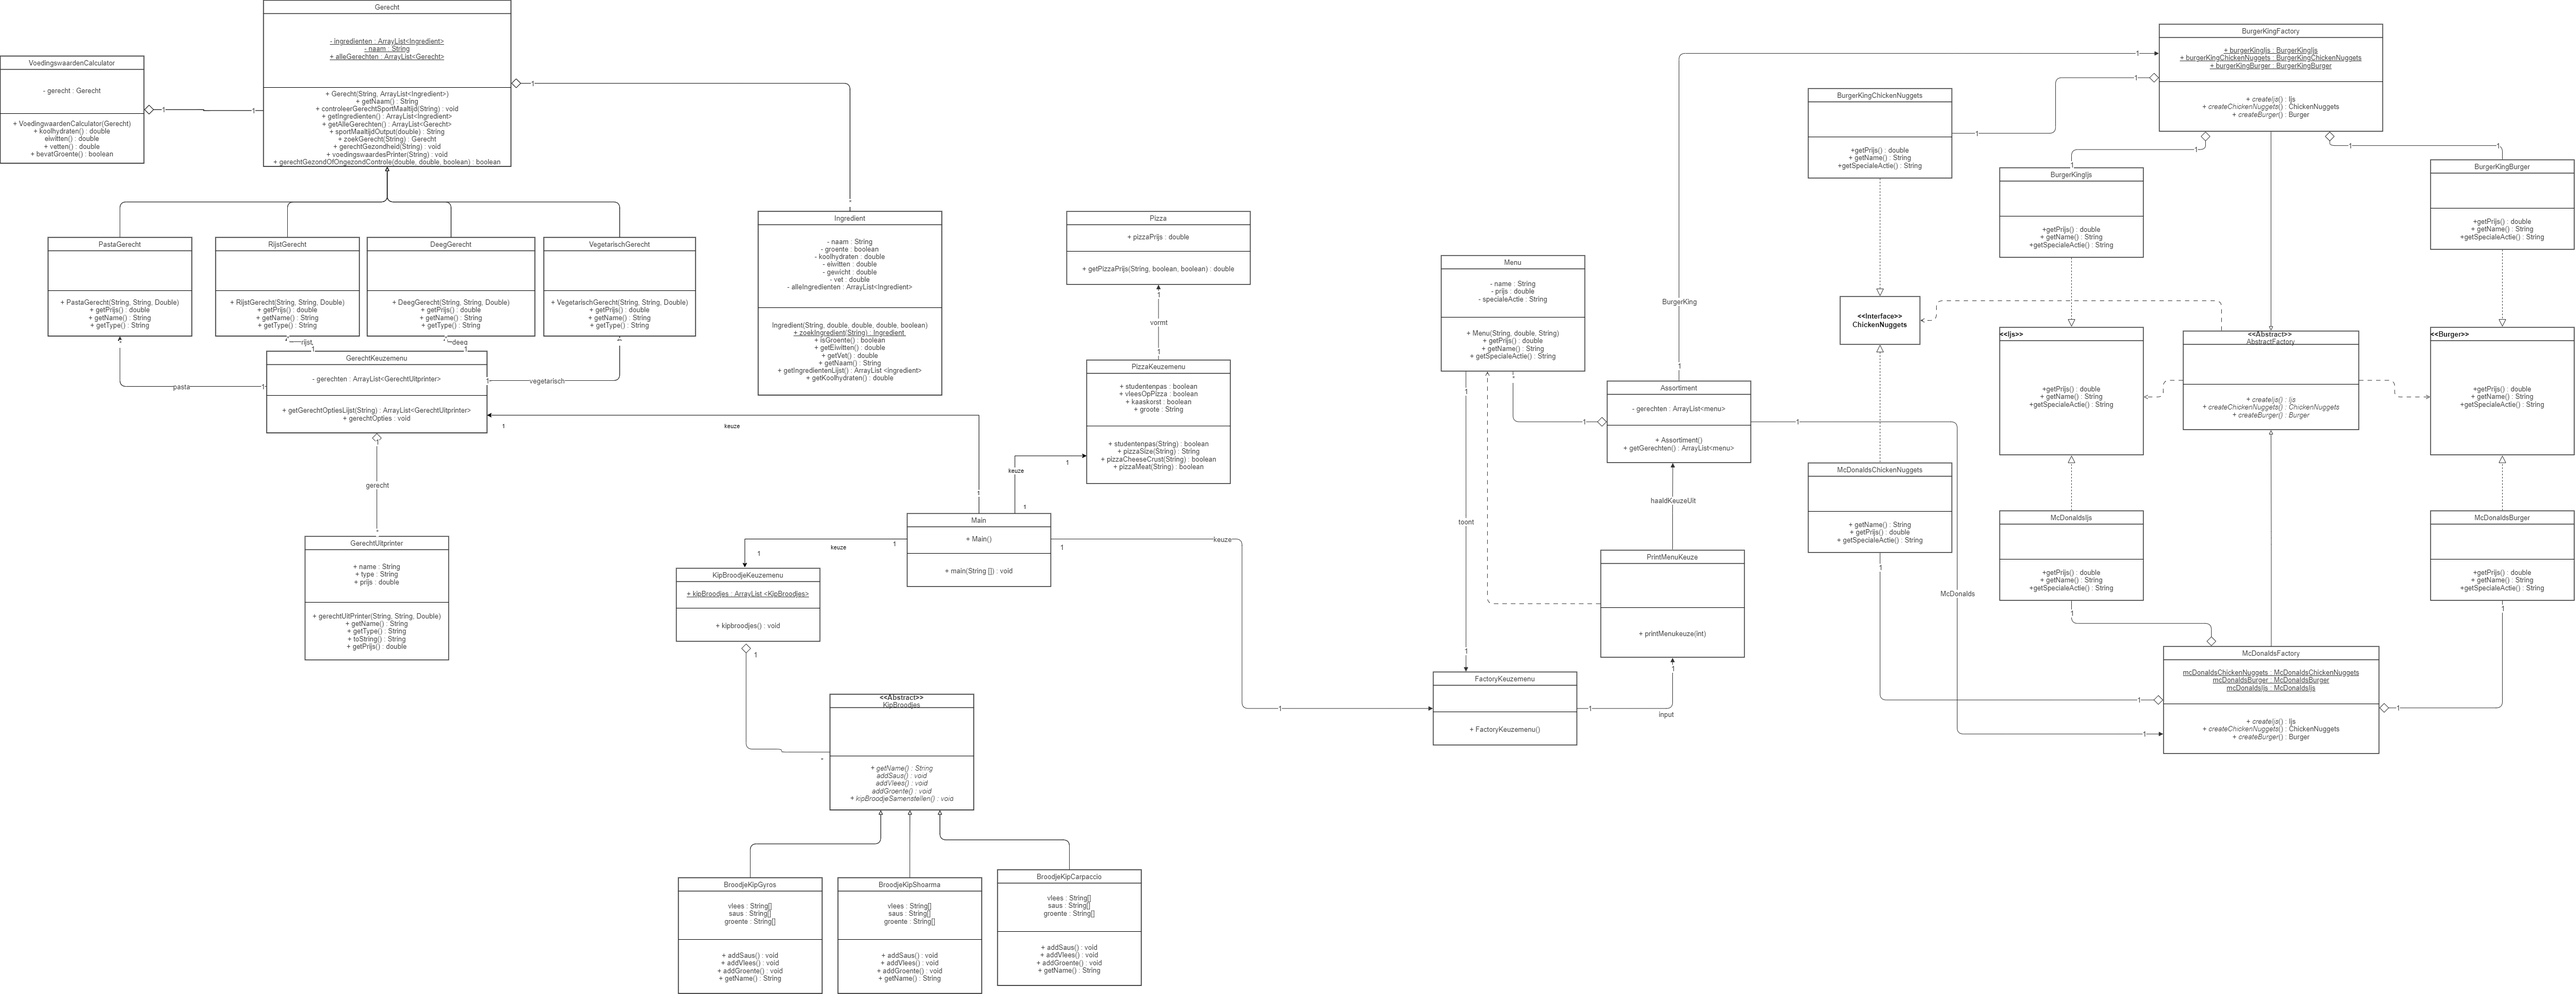
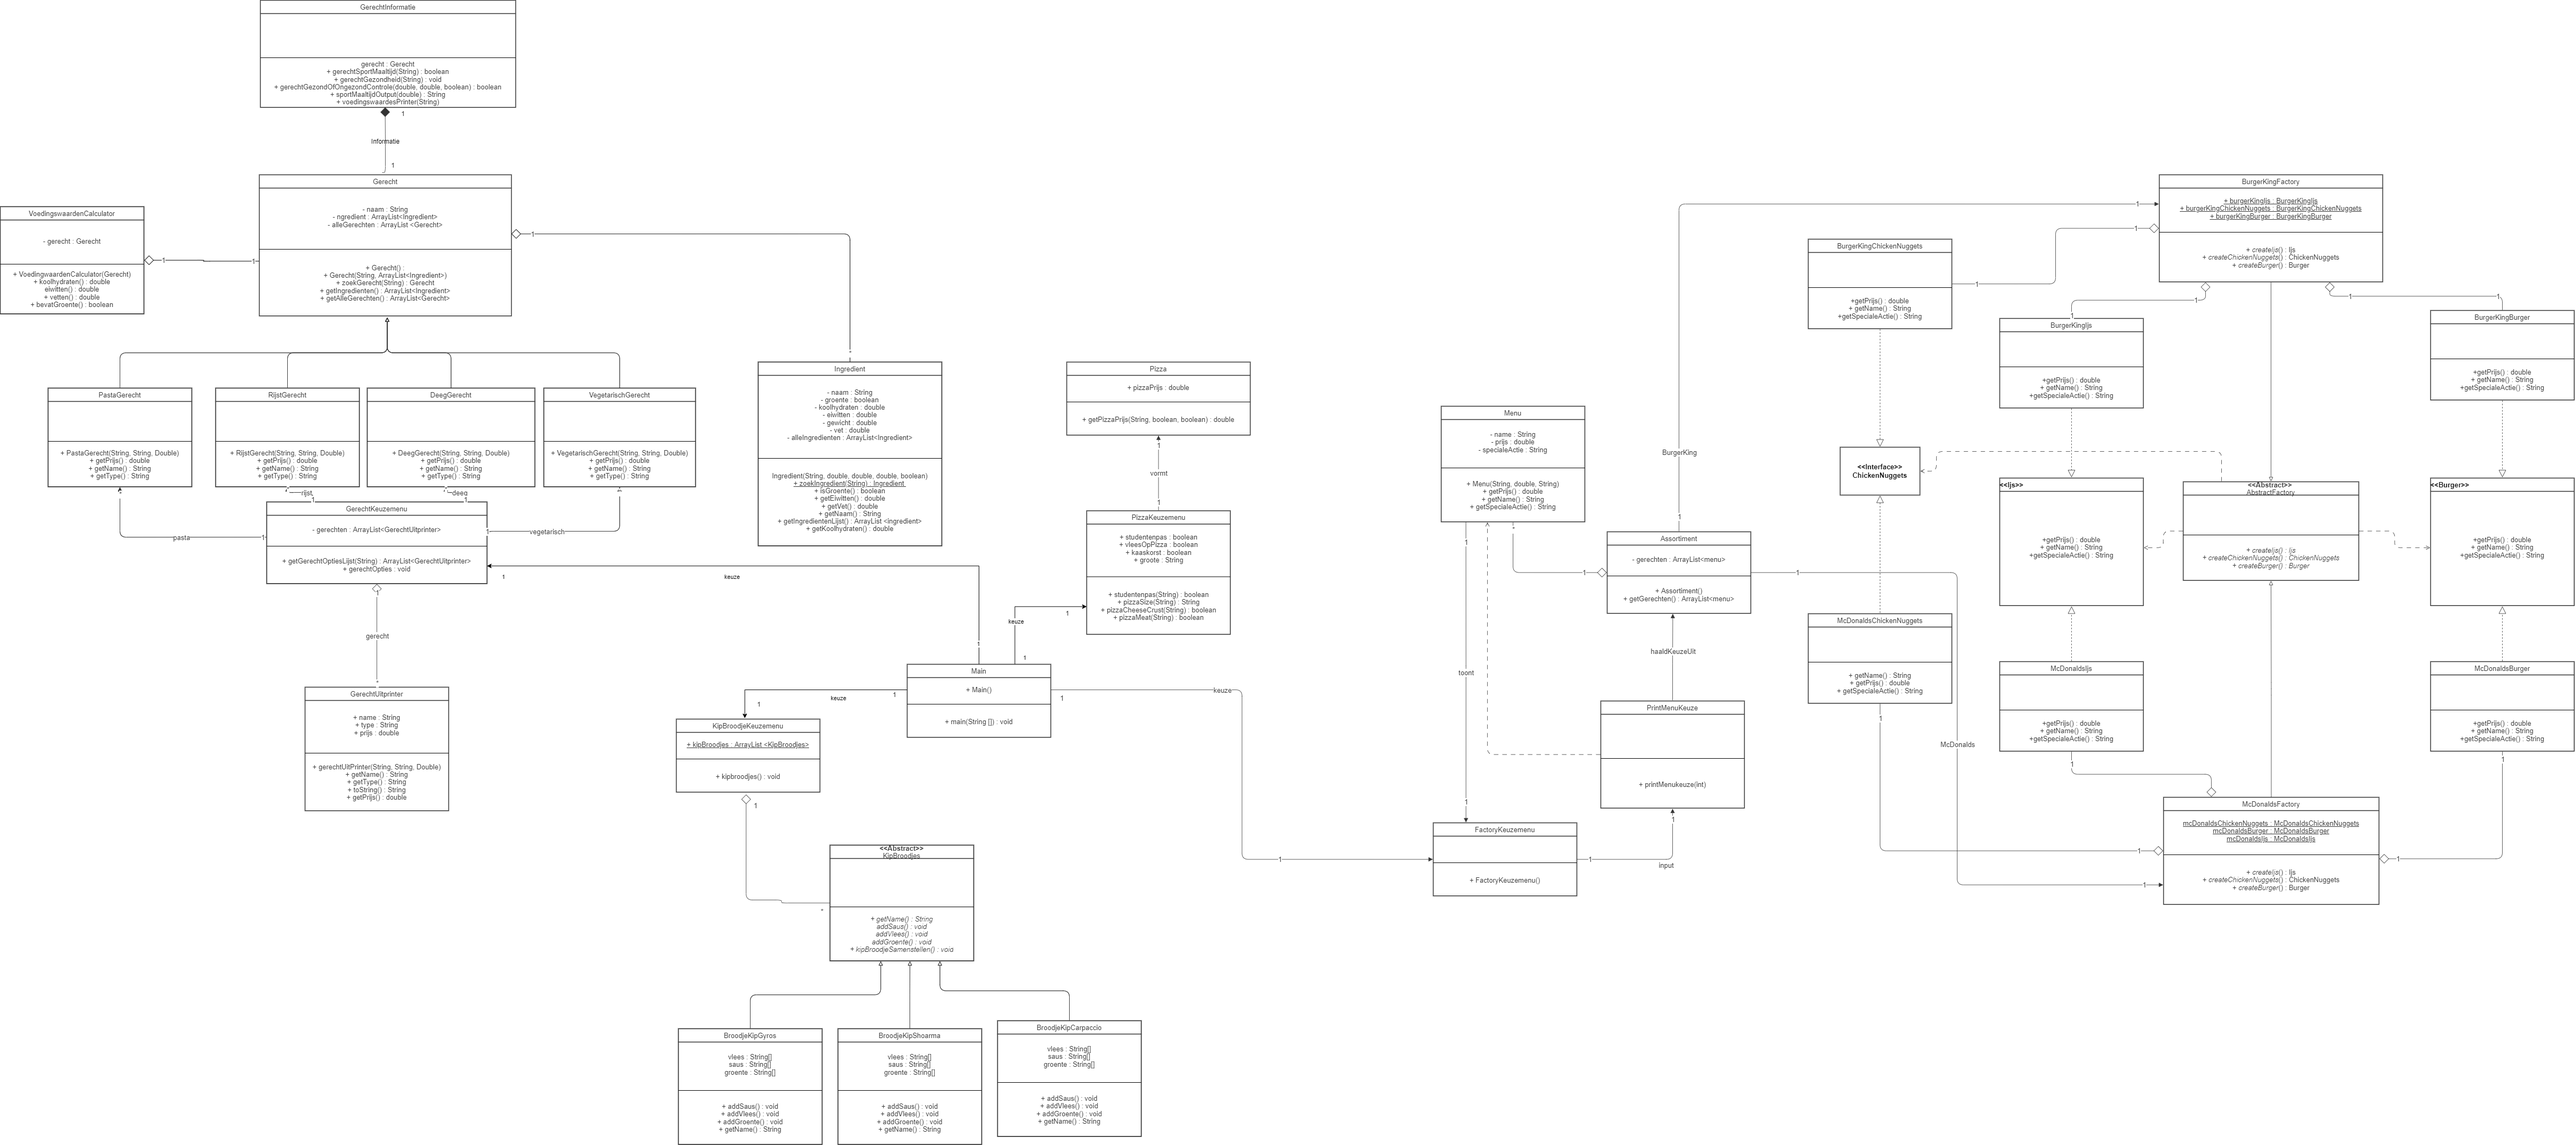
code smells verwijdert

diff --git a/src/AbstractFactoryPattern/Assortiment.java b/src/AbstractFactoryPattern/Assortiment.java
@@ -6,19 +6,19 @@ import AbstractFactoryPattern.McDonalds.McDonaldsFactory;
 import java.util.ArrayList;
 
 public class Assortiment {
-    private final ArrayList<Menu> gerechten = new ArrayList<>();
+    private final ArrayList<Producten> producten = new ArrayList<>();
 
     public Assortiment() {
-        gerechten.add(new Menu(McDonaldsFactory.mcDonaldsBurger.getName(), McDonaldsFactory.mcDonaldsBurger.getPrijs(), McDonaldsFactory.mcDonaldsBurger.getSpecialeActie()));
-        gerechten.add(new Menu(McDonaldsFactory.mcDonaldsIjs.getName(), McDonaldsFactory.mcDonaldsIjs.getPrijs(), McDonaldsFactory.mcDonaldsIjs.getSpecialeActie()));
-        gerechten.add(new Menu(McDonaldsFactory.mcDonaldsChickenNuggets.getName(), McDonaldsFactory.mcDonaldsChickenNuggets.getPrijs(), McDonaldsFactory.mcDonaldsChickenNuggets.getSpecialeActie()));
+        producten.add(new Producten(McDonaldsFactory.mcDonaldsBurger.getName(), McDonaldsFactory.mcDonaldsBurger.getPrijs(), McDonaldsFactory.mcDonaldsBurger.getSpecialeActie()));
+        producten.add(new Producten(McDonaldsFactory.mcDonaldsIjs.getName(), McDonaldsFactory.mcDonaldsIjs.getPrijs(), McDonaldsFactory.mcDonaldsIjs.getSpecialeActie()));
+        producten.add(new Producten(McDonaldsFactory.mcDonaldsChickenNuggets.getName(), McDonaldsFactory.mcDonaldsChickenNuggets.getPrijs(), McDonaldsFactory.mcDonaldsChickenNuggets.getSpecialeActie()));
 
-        gerechten.add(new Menu(BurgerKingFactory.burgerKingBurger.getName(), BurgerKingFactory.burgerKingBurger.getPrijs(), BurgerKingFactory.burgerKingBurger.getSpecialeActie()));
-        gerechten.add(new Menu(BurgerKingFactory.burgerKingChickenNuggets.getName(), BurgerKingFactory.burgerKingChickenNuggets.getPrijs(), BurgerKingFactory.burgerKingChickenNuggets.getSpecialeActie()));
-        gerechten.add(new Menu(BurgerKingFactory.burgerKingIjs.getName(), BurgerKingFactory.burgerKingIjs.getPrijs(), BurgerKingFactory.burgerKingIjs.getSpecialeActie()));
+        producten.add(new Producten(BurgerKingFactory.burgerKingBurger.getName(), BurgerKingFactory.burgerKingBurger.getPrijs(), BurgerKingFactory.burgerKingBurger.getSpecialeActie()));
+        producten.add(new Producten(BurgerKingFactory.burgerKingChickenNuggets.getName(), BurgerKingFactory.burgerKingChickenNuggets.getPrijs(), BurgerKingFactory.burgerKingChickenNuggets.getSpecialeActie()));
+        producten.add(new Producten(BurgerKingFactory.burgerKingIjs.getName(), BurgerKingFactory.burgerKingIjs.getPrijs(), BurgerKingFactory.burgerKingIjs.getSpecialeActie()));
     }
 
-    public ArrayList<Menu> getGerechten() {
-        return gerechten;
+    public ArrayList<Producten> getProducten() {
+        return producten;
     }
 }

diff --git a/src/GerechtInformatie.java b/src/GerechtInformatie.java
@@ -5,14 +5,14 @@ public class GerechtInformatie {
         double koolhydraten = new VoedingswaardenCalculator(gerecht.zoekGerecht(gerechtNaam)).koolhydraten();
         boolean groente = new VoedingswaardenCalculator(gerecht.zoekGerecht(gerechtNaam)).bevatGroente();
 
-        if (GerechtGezondOfOngezondControle(vetten, koolhydraten, groente)) {
+        if (gerechtGezondOfOngezondControle(vetten, koolhydraten, groente)) {
             System.out.println("Dit gerecht is ongezond! Het gerecht bevat geen groente en bevat veel vetten of koolhydraten.");
         } else {
             System.out.println("Dit gerecht is gezond! Het gerecht bevat groente en bevat weinig vetten of koolhydraten.");
         }
     }
 
-    public boolean GerechtGezondOfOngezondControle(double vetten, double koolhydraten, boolean groente) {
+    public boolean gerechtGezondOfOngezondControle(double vetten, double koolhydraten, boolean groente) {
         if ((vetten > 30 || koolhydraten > 50) && !groente) {
             //Als een gerecht meer dan 30 gram vet bevat OF meer dan 50 gram koolhydraten EN het bevat geen groente is het ongezond!
             return true;
@@ -22,7 +22,7 @@ public class GerechtInformatie {
         }
     }
 
-    public void GerechtSportMaaltijd(String gerechtNaam) {
+    public void gerechtSportMaaltijd(String gerechtNaam) {
         double eiwitten = new VoedingswaardenCalculator(gerecht.zoekGerecht(gerechtNaam)).eiwitten();
         System.out.println(sportMaaltijdOutput(eiwitten));
     }

diff --git a/Tests/TestCases.java b/Tests/TestCases.java
@@ -94,9 +94,9 @@ GerechtInformatie gerechtInformatie = new GerechtInformatie();
     @Test
     public void testControleerGerechtGezondOfOngezond() {
         GerechtInformatie gerechtInformatie = new GerechtInformatie();
-        Assert.assertFalse(gerechtInformatie.GerechtGezondOfOngezondControle(20, 30, false));
-        Assert.assertTrue(gerechtInformatie.GerechtGezondOfOngezondControle(40, 30, false));
-        Assert.assertTrue(gerechtInformatie.GerechtGezondOfOngezondControle(40, 60, false));
-        Assert.assertFalse(gerechtInformatie.GerechtGezondOfOngezondControle(40, 60, true));
+        Assert.assertFalse(gerechtInformatie.gerechtGezondOfOngezondControle(20, 30, false));
+        Assert.assertTrue(gerechtInformatie.gerechtGezondOfOngezondControle(40, 30, false));
+        Assert.assertTrue(gerechtInformatie.gerechtGezondOfOngezondControle(40, 60, false));
+        Assert.assertFalse(gerechtInformatie.gerechtGezondOfOngezondControle(40, 60, true));
     }
 }

diff --git a/src/AbstractFactoryPattern/printMenukeuze.java b/src/AbstractFactoryPattern/printMenukeuze.java
@@ -4,10 +4,10 @@ public class printMenukeuze {
 
     public printMenukeuze(int input) {
         Assortiment assortiment = new Assortiment();
-        System.out.printf("Bestelling:%nU koos voor: %s%n", assortiment.getGerechten().get(--input).getName());
-        System.out.printf("Prijs: %.2f€%n", assortiment.getGerechten().get(input).getPrijs());
-        if (assortiment.getGerechten().get(input).getSpecialeActie() != null) {
-            System.out.printf("Actie: %s%n", assortiment.getGerechten().get(input).getSpecialeActie());
+        System.out.printf("Bestelling:%nU koos voor: %s%n", assortiment.getProducten().get(--input).getName());
+        System.out.printf("Prijs: %.2f€%n", assortiment.getProducten().get(input).getPrijs());
+        if (assortiment.getProducten().get(input).getSpecialeActie() != null) {
+            System.out.printf("Actie: %s%n", assortiment.getProducten().get(input).getSpecialeActie());
         }
     }
 }

diff --git a/src/AbstractFactoryPattern/FactoryKeuzemenu.java b/src/AbstractFactoryPattern/FactoryKeuzemenu.java
@@ -6,10 +6,10 @@ public class FactoryKeuzemenu {
     public FactoryKeuzemenu() {
         Assortiment assortiment = new Assortiment();
         Scanner scanner = new Scanner(System.in);
-        System.out.printf("Waar heeft u trek in? vul een van de getallen in t/m %d.%n", assortiment.getGerechten().size());
+        System.out.printf("Waar heeft u trek in? vul een van de getallen in t/m %d.%n", assortiment.getProducten().size());
         int teller = 1;
-        for (int i = 0; i < assortiment.getGerechten().size(); i++) {
-            System.out.printf("%d. %s%n", teller++, assortiment.getGerechten().get(i).getName());
+        for (int i = 0; i < assortiment.getProducten().size(); i++) {
+            System.out.printf("%d. %s%n", teller++, assortiment.getProducten().get(i).getName());
         }
         int input = scanner.nextInt();
         new printMenukeuze(input);

diff --git a/src/GerechtKeuzemenu.java b/src/GerechtKeuzemenu.java
@@ -37,7 +37,7 @@ public class GerechtKeuzemenu {
         for (int i = 0; i < gerecht.zoekGerecht(gerechten.get(number - 1).getName()).getIngredienten().size(); i++) {
             System.out.println(gerecht.zoekGerecht(gerechten.get(number - 1).getName()).getIngredienten().get(i).getNaam());
         }
-        gerechtInformatie.GerechtSportMaaltijd(gerechten.get(number - 1).getName());
+        gerechtInformatie.gerechtSportMaaltijd(gerechten.get(number - 1).getName());
         gerechtInformatie.gerechtGezondheid(gerechten.get(number - 1).getName());
         gerechtInformatie.voedingswaardesPrinter(gerechten.get(number - 1).getName());
     }

diff --git a/src/AbstractFactoryPattern/Producten.java b/src/AbstractFactoryPattern/Producten.java
@@ -1,11 +1,11 @@
 package AbstractFactoryPattern;
 
-public class Menu {
+public class Producten {
     private String name;
     private double prijs;
     private String specialeActie;
 
-    public Menu(String name, double prijs, String specialeActie) {
+    public Producten(String name, double prijs, String specialeActie) {
         this.name = name;
         this.prijs = prijs;
         this.specialeActie = specialeActie;
